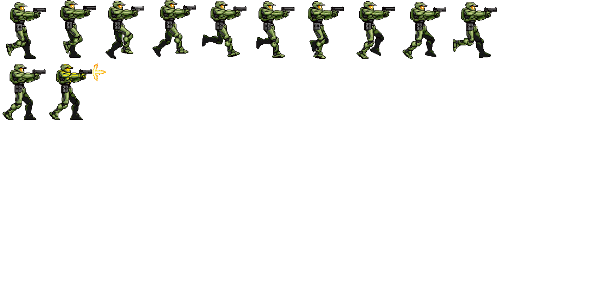
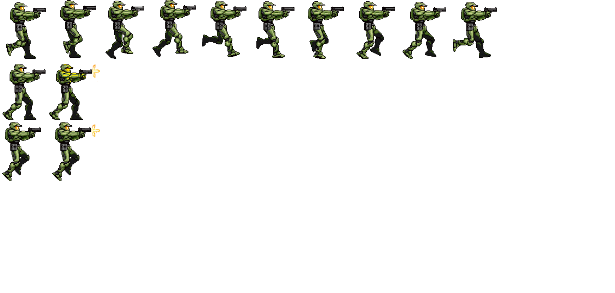
Added class Bullet, now player can jump and shoot, made collision functions but not fully implemented

Changed region(s): [[0.0, 0.3993, 0.1545, 0.6143], [0.1545, 0.215, 0.1854, 0.2765]]

diff --git a/src/gameObjects/Player.java b/src/gameObjects/Player.java
@@ -1,10 +1,12 @@
 package gameObjects;
+import game.Handler;
 import gfx.Assets;
 
 import java.awt.*;
+import java.util.LinkedList;
 
 public class Player extends GameObject{
-
+    private static double gravity = 20;
     private static final int width = 50, height = 60;
     private int i = 0;
     private int health;
@@ -13,23 +15,26 @@ public class Player extends GameObject{
     public static boolean
             isMovingRight= false,
             isMovingLeft = false,
-            isMovingUp = false,
-            isMovingDown = false,
-            isIdleLeft = false,
-            isIdleRight = true;
+            hasJumped = false,
+            isIdle = true,
+            isTurnedLeft = false,
+            isTurnedRight = true,
+            isShooting = false;
 
 
     public Player() {
         super(20, 470, width, height);
         this.health = 200;
         this.attackDamage = 150;
-        this.setVelX(2);
+        this.setVelX(3);
         this.setVelY(2);
     }
 
     @Override
     public void tick(){
-        this.getBoundingBox().setBounds(this.getX(), this.getY(), width, height);
+        int tempX = this.getX();
+        int tempY = this.getY();
+
         if(isMovingRight){
 
             if(this.getX() - lastDrawnPosition >= 10){
@@ -59,27 +64,71 @@ public class Player extends GameObject{
             }
 
         }
+        if(hasJumped){
+            this.setY(this.getY()  - (int)gravity);
+                gravity -= 0.5;
+            if(this.getY() == 470){
+                hasJumped = false;
+                gravity = 20;
+            }
+        }
 
-//        if(isMovingUp){
-//            this.setY(this.getY() - this.getVelY());
-//        } else if(isMovingDown) {
-//            this.setY(this.getY() + this.getVelY());
-//        }
+        if(isShooting){
+            this.shoot();
+            isShooting = false;
+        }
+
+        if(this.Collision(Handler.objects)){
+            this.setX(tempX);
+            this.setY(tempY);
+        }
+        this.getBoundingBox().setBounds(this.getX(), this.getY(), width, height);
     }
 
     @Override
     public void render(Graphics graphics) {
-
         //Just to see the player Rectangle
         graphics.drawRect(this.getBoundingBox().x, this.getBoundingBox().y, this.getBoundingBox().width, this.getBoundingBox().height);
-        if(isIdleRight){
+        if(hasJumped && isTurnedRight){
+                graphics.drawImage(Assets.player.crop(0, 120, width, height), this.getX(), this.getY(), null);
+        }
+        else  if(hasJumped && isTurnedLeft){
+                graphics.drawImage(Assets.reversedPlayer.crop(450, 120, width, height), this.getX(), this.getY(), null);
+        }
+        else if(isIdle && isTurnedRight ){
             graphics.drawImage(Assets.player.crop(0, 60, width, height), this.getX(), this.getY(), null);
-        } else if(isIdleLeft){
+        }
+        else if(isIdle && isTurnedLeft){
             graphics.drawImage(Assets.reversedPlayer.crop(450, 60, width, height), this.getX(), this.getY(), null);
-        } else if(isMovingRight){
+        }
+        else if(isMovingRight){
             graphics.drawImage(Assets.player.crop(i * width, 0, width, height), this.getX(), this.getY(), null);
-        }else if(isMovingLeft){
+        }
+        else if(isMovingLeft){
             graphics.drawImage(Assets.reversedPlayer.crop(500 - (i + 1) * width+3, 0, width, height), this.getX(), this.getY(), null);
         }
+    }
+
+
+    @Override
+    public int getID() {
+        return 1;
+    }
+
+    @Override
+    public boolean Collision(LinkedList<GameObject> list) {
+        for (GameObject obj : list) {
+            if(this.intersects(obj) && obj.getID() != 1)
+                return true;
+        }
+        return false;
+    }
+
+    public void shoot(){
+        if(isTurnedRight){
+            Handler.objects.add(new Bullet(this.getX() + 51, this.getY() + 9, true));
+        }else
+            Handler.objects.add(new Bullet(this.getX() - 1, this.getY() + 9, false));
+
     }
 }

diff --git a/src/game/InputHandler.java b/src/game/InputHandler.java
@@ -8,6 +8,8 @@ import java.awt.event.KeyListener;
 import java.util.regex.Pattern;
 
 public class InputHandler implements KeyListener{
+    private static long lastTime = System.nanoTime();
+    private static long now;
 
 
     public InputHandler(Display display){
@@ -19,23 +21,31 @@ public class InputHandler implements KeyListener{
         int keyCode = e.getKeyCode();
 
         if (keyCode == KeyEvent.VK_LEFT) {
+            Player.isTurnedRight = false;
             Player.isMovingLeft = true;
-            Player.isIdleRight = false;
-            Player.isIdleLeft = false;
-            Player.isMovingRight = false;
-
-
+            Player.isIdle = false;
+            Player.isTurnedLeft = true;
         }
-        if (keyCode == KeyEvent.VK_RIGHT) {
+        else if (keyCode == KeyEvent.VK_RIGHT) {
+            Player.isTurnedLeft = false;
             Player.isMovingRight = true;
-            Player.isMovingLeft = false;
-            Player.isIdleRight = false;
-            Player.isIdleLeft = false;
-
-
+            Player.isTurnedRight = true;
+            Player.isIdle = false;
         }
         if (keyCode == KeyEvent.VK_ESCAPE) {
             System.exit(0);
+        }
+        if(keyCode == KeyEvent.VK_UP){
+            Player.hasJumped = true;
+        }
+        if(keyCode == KeyEvent.VK_SPACE){
+            now = System.nanoTime();
+            long delta = now - lastTime;
+            if(Math.abs(delta) >= 400000000){
+                Player.isShooting = true;
+                lastTime = now;
+            }
+
         }
     }
 
@@ -48,18 +58,16 @@ public class InputHandler implements KeyListener{
         int keyCode = e.getKeyCode();
 
         if (keyCode == KeyEvent.VK_LEFT) {
-            Player.isIdleLeft = true;
+            Player.isIdle = true;
             Player.isMovingLeft = false;
-            Player.isIdleRight = false;
-            Player.isMovingRight = false;
 
         }
         if (keyCode == KeyEvent.VK_RIGHT) {
-            Player.isIdleRight = true;
             Player.isMovingRight = false;
-            Player.isMovingLeft = false;
-            Player.isIdleLeft = false;
-
+            Player.isIdle = true;
+        }
+        if(keyCode == KeyEvent.VK_SPACE){
+            Player.isShooting = false;
         }
     }
 }

diff --git a/src/gameObjects/Bullet.java b/src/gameObjects/Bullet.java
@@ -1,0 +1,48 @@
+package gameObjects;
+
+import gfx.Assets;
+
+import java.awt.*;
+import java.util.LinkedList;
+
+
+public class Bullet extends GameObject{
+    private boolean toRight;
+    public Bullet(int x, int y, boolean toRight) {
+        super(x, y, 20, 6);
+        this.toRight = toRight;
+        this.setVelX(5);
+    }
+
+    @Override
+    public void tick() {
+        if(toRight)
+            this.setX(this.getX() + getVelX());
+        else
+            this.setX(this.getX() - getVelX());
+
+        this.getBoundingBox().setBounds(this.getX(), this.getY(), this.getWidth(), this.getHeight());
+    }
+
+    @Override
+    public void render(Graphics graphics) {
+        graphics.drawImage(Assets.bullet.crop(0, 0, 20, 6), this.getX(), this.getY(), null);
+    }
+
+
+    @Override
+    public int getID() {
+        return 2;
+    }
+
+    @Override
+    public boolean Collision(LinkedList<GameObject> list) {
+        for (GameObject obj : list) {
+            if(this.intersects(obj) && obj.getID() != 3){
+                //Must implement a Hit function in GameObject
+                //obj.Hit();
+            }
+        }
+        return false;
+    }
+}

diff --git a/src/gameObjects/GameObject.java b/src/gameObjects/GameObject.java
@@ -1,6 +1,7 @@
 package gameObjects;
 
 import java.awt.*;
+import java.util.LinkedList;
 
 public abstract class GameObject {
     private int x, y;
@@ -19,6 +20,14 @@ public abstract class GameObject {
     }
     public abstract void tick();
     public abstract void render(Graphics graphics);
+    //getID will be unique for the different types of object: Player: 1, Bullet: 2, Enemy: 3
+    public abstract int getID();
+    //Checks if the current object is colliding with something
+    public abstract boolean Collision(LinkedList<GameObject> list);
+
+    public boolean intersects(GameObject other) {
+        return this.getBoundingBox().contains(other.getBoundingBox());
+    }
 
     public int getVelX() {
         return velX;
@@ -71,9 +80,5 @@ public abstract class GameObject {
 
     public Rectangle getBoundingBox() {
         return boundingBox;
-    }
-
-    public void setBoundingBox(Rectangle boundingBox) {
-        this.boundingBox = boundingBox;
     }
 }

diff --git a/src/gfx/Assets.java b/src/gfx/Assets.java
@@ -5,14 +5,16 @@ import java.awt.image.BufferedImage;
 
 public class Assets {
 
-    public static SpriteSheet player, reversedPlayer;
+    public static SpriteSheet player, reversedPlayer,bullet;
     //Loads every resource needed for the game
     public static void init() {
         SpriteSheet playerSheet = new SpriteSheet(ImageLoader.loadImage("/Player/player.png"));
         SpriteSheet reversedPlayerSheet = new SpriteSheet(ImageLoader.loadImage("/Player/reversedPlayer.png"));
 
+
         player = playerSheet;
         reversedPlayer = reversedPlayerSheet;
+        bullet = new SpriteSheet(ImageLoader.loadImage("/Player/bullet.png"));
 
     }
 }

diff --git a/src/game/Game.java b/src/game/Game.java
@@ -47,7 +47,7 @@ public class Game implements Runnable{
         this.inputHandler = new InputHandler(this.display);
 
         Assets.init();
-        this.handler.objects.add(new Player());
+        Handler.objects.add(new Player());
 
     }
 
